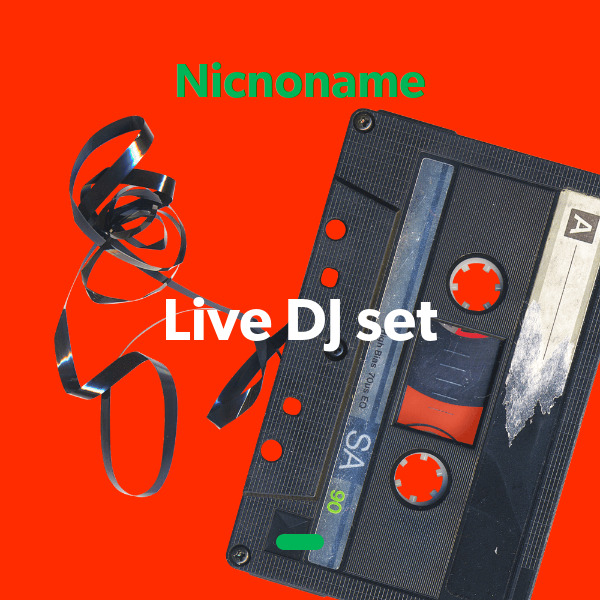
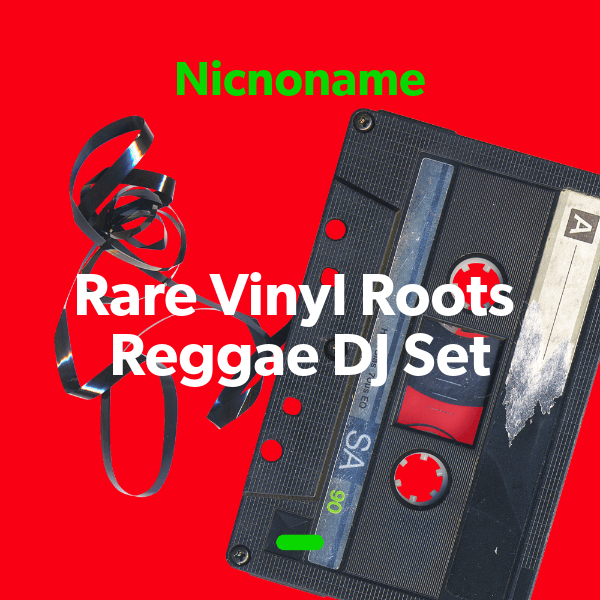
Archive updates

diff --git a/_includes/archive.md b/_includes/archive.md
@@ -13,7 +13,7 @@
 #### 10am Dan M (replay) <a href="https://open.spotify.com/playlist/1L0fonaflBnYNG2I2vYPv6" target="_blank" title="Go to playlist"> <i class="fab fa-spotify fa-inverse"></i></a>
 ![cover art](assets/owner/images/20200419-10am.jpeg)
 
-#### 2pm Nicnoname
+#### 2pm Nicnoname <a href="https://www.mixcloud.com/Glastonauts_Live/nicnoname-rare-vinyl-roots-reggae-dj-set/" target="_blank" title="Go to recording"> <i class="fab fa-mixcloud fa-inverse"></i></a>
 ![cover art](assets/owner/images/20200510-2pm.jpeg)
 
 #### 6pm Styles
@@ -43,7 +43,9 @@
 #### 11pm Josh <a href="https://www.mixcloud.com/Glastonauts_Live/josh-phat-fest-takeover-iii/" target="_blank" title="Go to recording"> <i class="fab fa-mixcloud fa-inverse"></i></a>
 ![cover art](assets/owner/images/20200509-11pm.jpeg)
 
-#### 12.30am Ioannis
+#### 12.30am Ioannis <a href="https://www.mixcloud.com/Glastonauts_Live/ioannis-last-minute/" target="_blank" title="Go to recording"> <i class="fab fa-mixcloud fa-inverse"></i></a>
+![cover art](assets/owner/images/20200509-12am.jpeg)
+
 
 ### Friday May 8th
 ---
